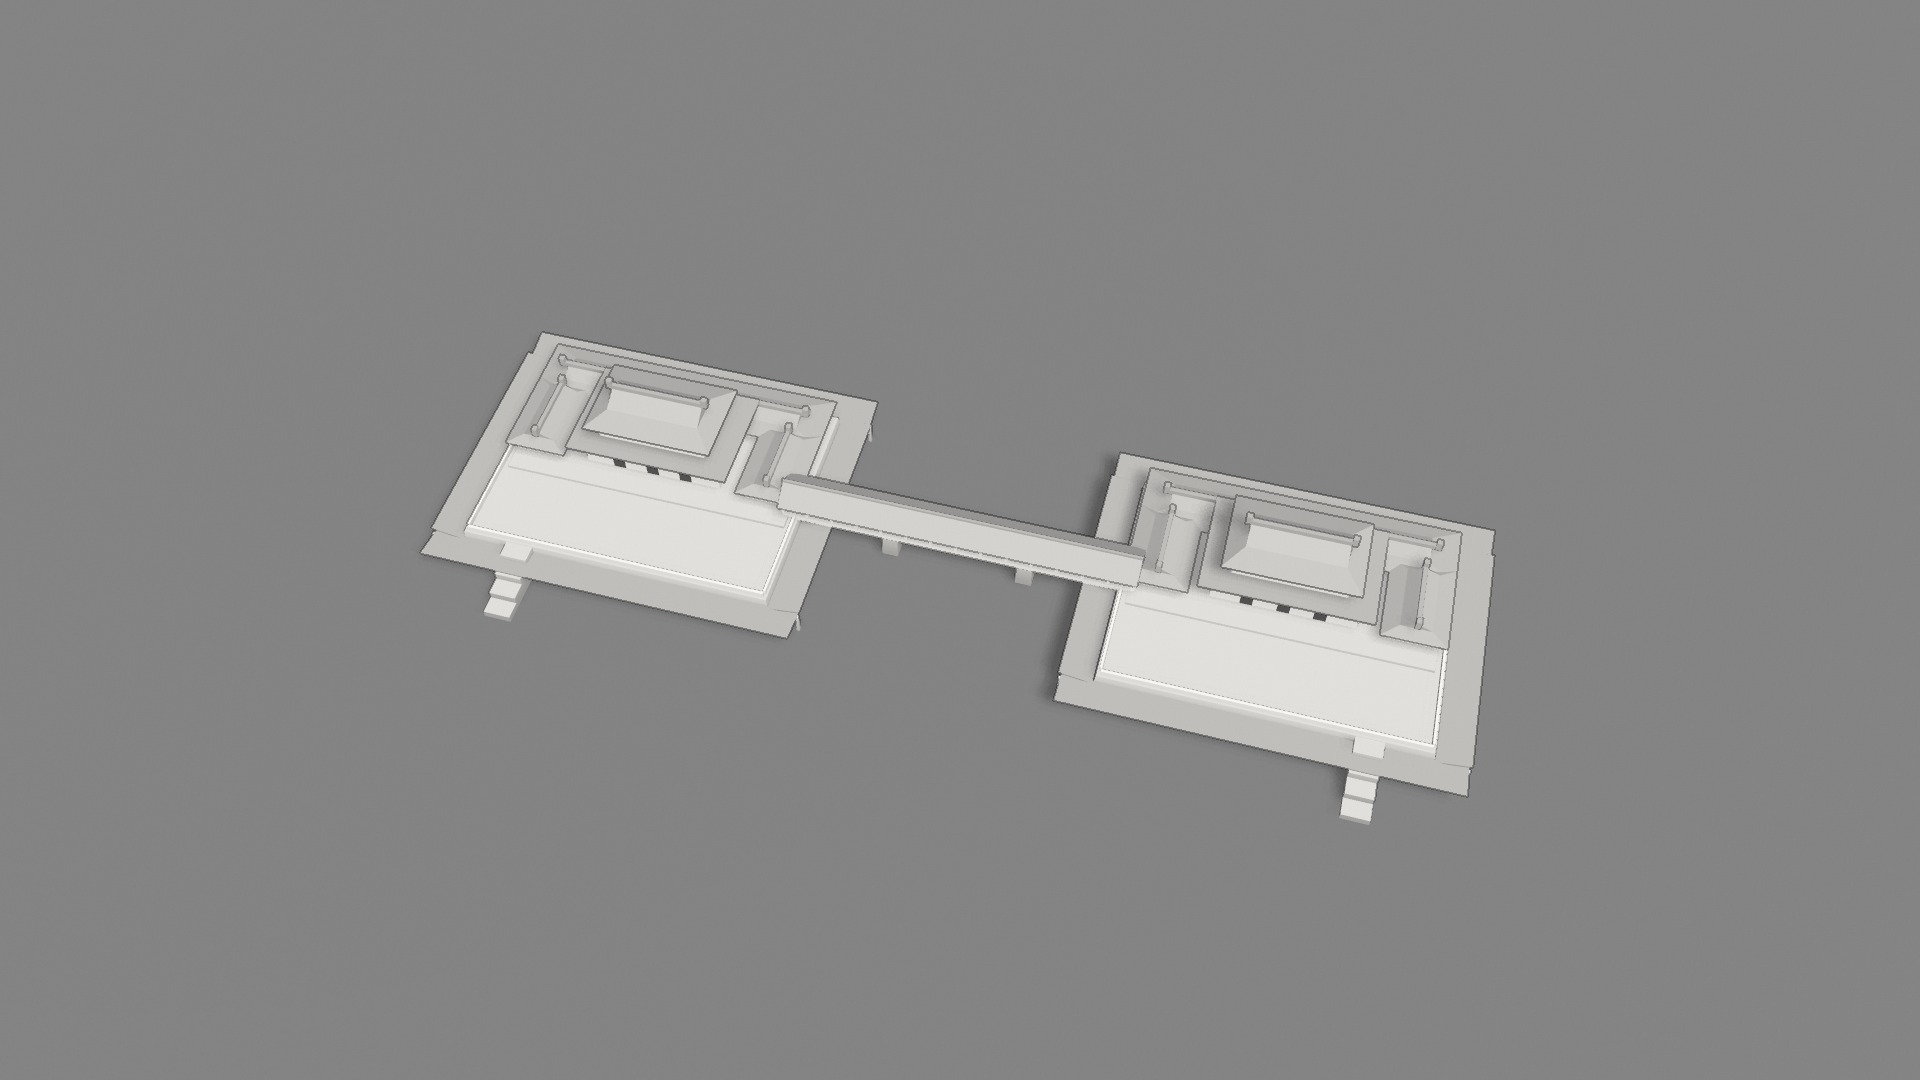
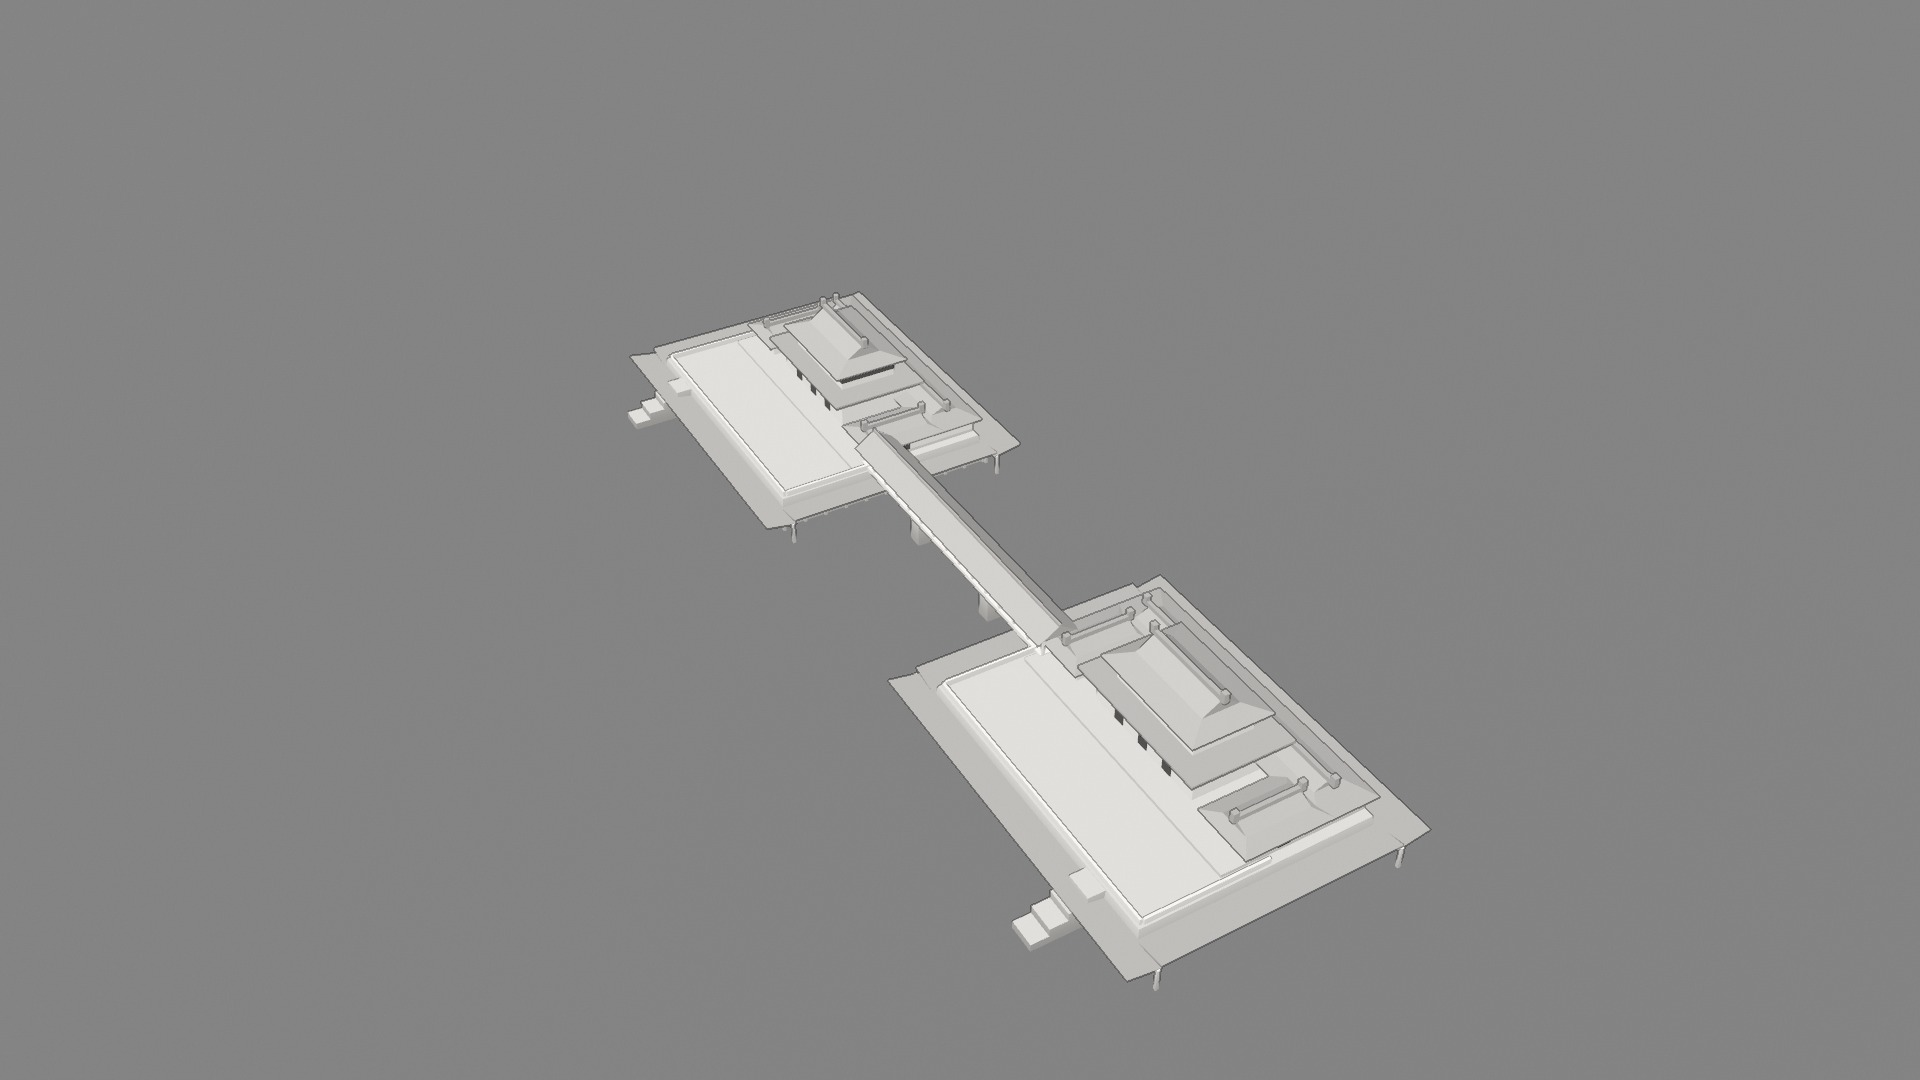
Palace No. 1's four pictures again, from stills whose ground fades toward the horizon: the ground runs on, no plateau or cliff; a lower aerial view; each checked on its sheet, all aligned at the first try
The fading ground keeps its depth to the horizon, so the crisp edges draw no ring where it fades.

Changed region(s): [[0.2188, 0.275, 0.7812, 0.9167]]

diff --git a/engine/museum.js b/engine/museum.js
@@ -60,7 +60,7 @@ export async function startMuseum({ stage, base, meta, model, clean = false, vp:
     m.transparent = true;
     m.onBeforeCompile = (sh, r) => { own(sh, r); sh.uniforms.uFade = fadeU;
       sh.fragmentShader = sh.fragmentShader.replace('#include <common>', '#include <common>\nuniform vec4 uFade;')
-        .replace('#include <opaque_fragment>', 'diffuseColor.a *= (1. - smoothstep(uFade.x, uFade.y, length(vWP.xz))) * (1. - smoothstep(uFade.z, uFade.w, gl_FragCoord.y)); if (diffuseColor.a < .004) discard;\n#include <opaque_fragment>'); };
+        .replace('#include <opaque_fragment>', 'diffuseColor.a *= (1. - smoothstep(uFade.x, uFade.y, length(vWP.xz))) * (1. - smoothstep(uFade.z, uFade.w, gl_FragCoord.y));\n#include <opaque_fragment>'); };   // (no discard: the ground goes on in depth to the horizon, so the crisp edges draw no line where it fades)
     m.customProgramCacheKey = () => 'proj0fade';
   }
   // the viewpoints and their pictures (the main one is on screen already, as the page's first picture)
